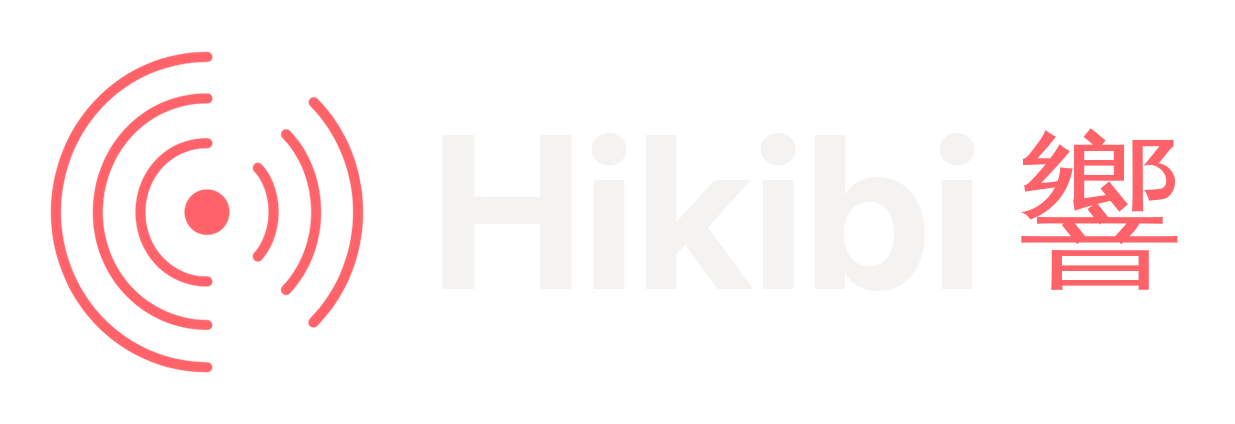
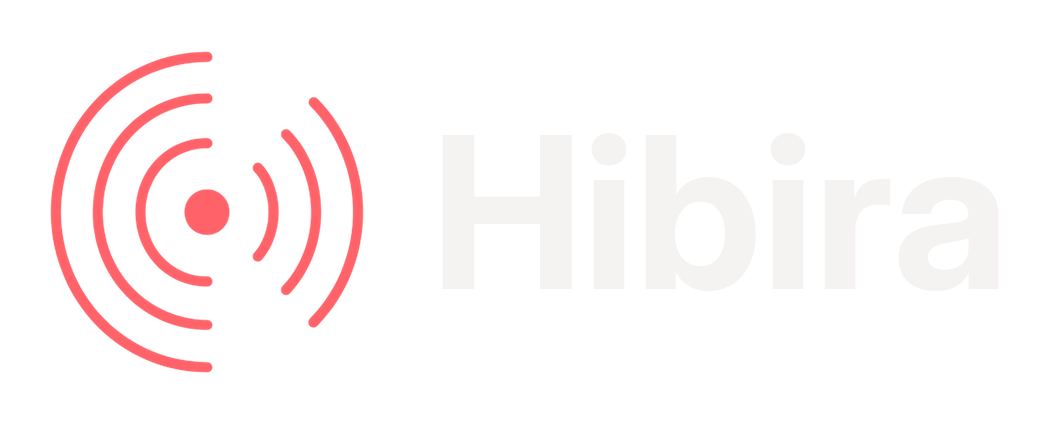
Rename to Hibira: profile, wordmark, SDK names, community files
The org profile uses the Hibira wordmark and tagline and lists the
renamed SDKs (@hibira-io/large-presence, @hibira-io/push-web,
io.hibira.push, HibiraPush) with a note on the deprecated @hikibi/*
packages. Links point at github.com/hibira-io; the hikibi.io site,
status page and mailboxes are unchanged for now.

Claude-Session: https://claude.ai/code/session_0139CCu1c1PYCj8Uj3tJC9Xq

Changed region(s): [[0.0312, 0.1226, 0.3428, 0.8892], [0.8102, 0.3066, 0.966, 0.7052]]

diff --git a/profile/README.md b/profile/README.md
@@ -2,7 +2,7 @@
   <a href="https://hikibi.io">
     <picture>
       <source media="(prefers-color-scheme: dark)" srcset="assets/wordmark-dark.png">
-      <img src="assets/wordmark.png" alt="Hikibi 響" width="320">
+      <img src="assets/wordmark.png" alt="Hibira" width="320">
     </picture>
   </a>
 </p>
@@ -25,13 +25,14 @@
 
 ---
 
-## 👋 Hi, we're Hikibi 響
+## 👋 Hi, we're Hibira
 
-**響** means "echo" or "resonance": a message sent once and heard
-everywhere at the same moment. That is what we build.
+**Every Event. Every Connection.** Hibira is realtime communication
+infrastructure: one event sent, and every connected user hears it at the
+same moment.
 
-Hikibi is a hosted realtime service run from Asia-Pacific. Your backend
-publishes an event over a simple HTTP API and Hikibi delivers it instantly to
+Hibira (formerly Hikibi) is a hosted realtime service run from Asia-Pacific. Your backend
+publishes an event over a simple HTTP API and Hibira delivers it instantly to
 every browser and app that is listening, whether that is one user or tens of
 thousands. We keep the WebSocket connections open, scale them, and track who
 is online, so you don't have to run realtime servers yourself.
@@ -43,7 +44,7 @@ into a surprise bill.
 
 ## ✨ What you get
 
-- **Drop-in Pusher compatibility.** Hikibi speaks the Pusher Channels
+- **Drop-in Pusher compatibility.** Hibira speaks the Pusher Channels
   protocol 7 and HTTP API. Laravel Broadcasting, Laravel Echo, `pusher-js`
   and the Pusher server SDKs work unchanged: you only change the host and keys.
 - **Low latency across Asia.** Hosted in Hong Kong, a short hop from Taipei,
@@ -99,13 +100,17 @@ Laravel, PHP, Node.js, Python, Go, Ruby, Java, .NET, iOS, Android and Flutter.
 
 | Repository | Platform | Install |
 |---|---|---|
-| [large-presence-js](https://github.com/hikibi-io/large-presence-js) | Browsers, `@hikibi/large-presence`: rooms of up to 100,000 members with pusher-js or Laravel Echo | npm |
-| [hikibi-push-web](https://github.com/hikibi-io/hikibi-push-web) | Browsers, `@hikibi/push-web`: web push notifications | npm or jsDelivr |
-| [hikibi-push-android](https://github.com/hikibi-io/hikibi-push-android) | Android (Kotlin/Java), package `io.hikibi.push` | JitPack |
-| [hikibi-push-ios](https://github.com/hikibi-io/hikibi-push-ios) | iOS (Swift), module `HikibiPush` | Swift Package Manager |
+| [large-presence-js](https://github.com/hibira-io/large-presence-js) | Browsers, `@hibira-io/large-presence`: rooms of up to 100,000 members with pusher-js or Laravel Echo | npm |
+| [hibira-push-web](https://github.com/hibira-io/hibira-push-web) | Browsers, `@hibira-io/push-web`: web push notifications | npm or jsDelivr |
+| [hibira-push-android](https://github.com/hibira-io/hibira-push-android) | Android (Kotlin/Java), package `io.hibira.push` | JitPack |
+| [hibira-push-ios](https://github.com/hibira-io/hibira-push-ios) | iOS and macOS (Swift), module `HibiraPush` | Swift Package Manager |
+
+The packages were renamed with the brand: `@hikibi/large-presence` and
+`@hikibi/push-web` still install but are deprecated, so switch to the
+`@hibira-io/*` names.
 
 For public, private and presence channels, keep the Pusher-compatible client you already use and
-point it at Hikibi.
+point it at Hibira.
 
 ## 💰 Simple plans
 
@@ -126,6 +131,6 @@ a 99.9% uptime SLA. See [pricing](https://hikibi.io/pricing).
 ---
 
 <sub>Pusher, Pusher Channels and Pusher Beams are trademarks of their
-respective owner. Hikibi is an independent service and is not affiliated
+respective owner. Hibira is an independent service and is not affiliated
 with, endorsed by or sponsored by Pusher or its owner. "Pusher-compatible" and
 "Beams-compatible" describe protocol and API compatibility only.</sub>

diff --git a/README.md b/README.md
@@ -1,10 +1,10 @@
-# hikibi-io/.github
+# hibira-io/.github
 
-Organization-wide defaults for [Hikibi 響](https://hikibi.io) repositories on GitHub.
+Organization-wide defaults for [Hibira](https://hikibi.io) repositories on GitHub.
 
 | Path | Purpose |
 |---|---|
-| [`profile/README.md`](profile/README.md) | The public profile shown on https://github.com/hikibi-io |
+| [`profile/README.md`](profile/README.md) | The public profile shown on https://github.com/hibira-io |
 | [`CONTRIBUTING.md`](CONTRIBUTING.md) | How to report bugs and send pull requests |
 | [`SECURITY.md`](SECURITY.md) | How to report a vulnerability |
 | [`CODE_OF_CONDUCT.md`](CODE_OF_CONDUCT.md) | Community standards |

diff --git a/SECURITY.md b/SECURITY.md
@@ -1,6 +1,6 @@
 # Security Policy
 
-We take the security of Hikibi 響 and its SDKs seriously, and we appreciate
+We take the security of Hibira and its SDKs seriously, and we appreciate
 reports from the security community.
 
 ## Reporting a vulnerability
@@ -31,7 +31,7 @@ on an SDK repository where it is enabled.
 
 In scope: the hosted service on `hikibi.io` and its subdomains, and the code
 in the public repositories of the
-[hikibi-io](https://github.com/hikibi-io) organization.
+[hibira-io](https://github.com/hibira-io) organization.
 
 Out of scope: denial-of-service and load testing, social engineering,
 physical attacks, spam, reports from automated scanners without a working

diff --git a/CONTRIBUTING.md b/CONTRIBUTING.md
@@ -1,7 +1,7 @@
-# Contributing to Hikibi SDKs
+# Contributing to Hibira SDKs
 
-Thanks for helping improve the Hikibi 響 client SDKs. This guide applies to
-every public repository in the [hikibi-io](https://github.com/hikibi-io)
+Thanks for helping improve the Hibira client SDKs. This guide applies to
+every public repository in the [hibira-io](https://github.com/hibira-io)
 organization unless the repository has its own `CONTRIBUTING.md`.
 
 Issues and pull requests here are about the SDKs. For problems with your account, billing or the hosted
